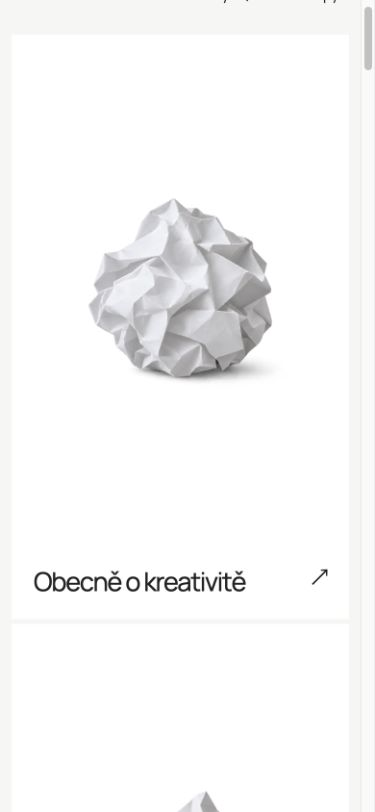
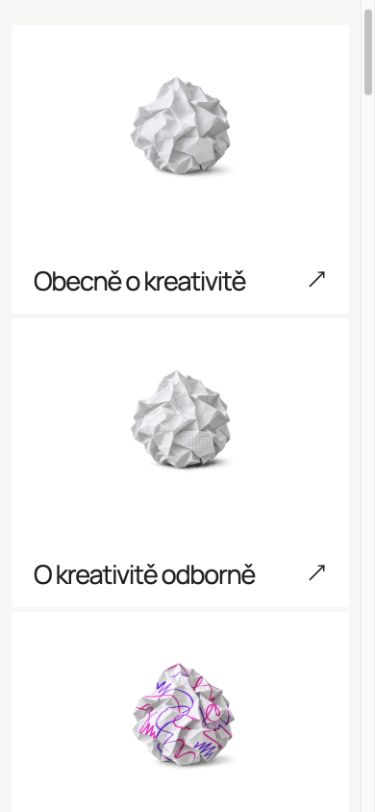
Zmenšit dlaždice a sjednotit motiv zmačkaného papíru

diff --git a/src/data/creative-photos.ts b/src/data/creative-photos.ts
@@ -1,10 +1,10 @@
-/** Matched AI studio paper series. Origins and prompts: docs/PAPER-PHOTOS.md. */
+/** Crumpled-paper AI studio series. Origins and prompts: docs/PAPER-PHOTOS-V2.md. */
 import obecne from '../assets/creative-paper/obecne-v1.png';
-import odborne from '../assets/creative-paper/odborne-v1.png';
+import odborne from '../assets/creative-paper/odborne-v2.png';
 import svobodne from '../assets/creative-paper/svobodne-v1.png';
-import cviceni from '../assets/creative-paper/cviceni-v1.png';
-import okenko from '../assets/creative-paper/okenko-v1.png';
-import recenze from '../assets/creative-paper/recenze-v1.png';
-import spoluprace from '../assets/creative-paper/spoluprace-v1.png';
-import inspirace from '../assets/creative-still-life/lahev-vlastovka-v1.png';
+import cviceni from '../assets/creative-paper/cviceni-v2.png';
+import okenko from '../assets/creative-paper/okenko-v2.png';
+import recenze from '../assets/creative-paper/recenze-v2.png';
+import spoluprace from '../assets/creative-paper/spoluprace-v2.png';
+import inspirace from '../assets/creative-paper/inspirace-v2.png';
 export const creativePhotos = { obecne, odborne, svobodne, cviceni, okenko, recenze, spoluprace, inspirace };

diff --git a/docs/PAPER-PHOTOS-V2.md b/docs/PAPER-PHOTOS-V2.md
@@ -1,0 +1,91 @@
+# Jedna zmačkaná koule, osm rubrik
+
+Vytvořeno 6. 11. 2026 vestavěným ImageGen (bez CLI/API). Jde o AI fotografické studie, nikoli fotografie Marka. Nový požadavek: ve všech dlaždicích podobný tvar zmačkaného papíru; měnit jeho úpravu, ne druh předmětu.
+
+Základ i geometrická reference: `src/assets/creative-paper/obecne-v1.png`. Čistý motiv a počmáraný `svobodne-v1.png` zůstávají z první série, jejich původ je v `PAPER-PHOTOS.md`. Šest nových variant níže bylo vytvořeno samostatnými editacemi téhož základu. Všechny výstupy mají 1086 × 1448 px a skutečný alfa kanál, který zůstává zachovaný. Originály V1 a stará lahev/vlaštovka/kniha se nemažou. Mapování v `src/data/creative-photos.ts` se používá i v rubrikách a jejich náhledech.
+
+Aktuální řada: čistá koule / schémata / magentové a fialové čmáranice / krátké trhliny / malé okénko / textový potisk / trhlina se sponkou / barevné papírové pásky. Potisk je generovaná dekorativní textura, nikoli ukázka skutečné knihy, recenze ani autorova textu. Nové obrázky nejsou dodatečně přebarvené nebo skládané programově.
+
+## odborne
+
+Projekt: `src/assets/creative-paper/odborne-v2.png`
+
+Zdroj: `/Users/marekstojka/.codex/generated_images/01a1b2d0-148d-7350-b48c-58dfb2bcce58/exec-6dd927b3-2422-4774-8138-93a9b00d9df7.png`
+
+Reference: `/Users/marekstojka/Library/Mobile Documents/com~apple~CloudDocs/Moje/_můj web/src/assets/creative-paper/obecne-v1.png`
+
+Nastavení: `transparent_background: true`, `referenced_image_paths: [reference]`.
+
+Přesný prompt:
+
+Use case: precise-object-edit. Asset: matched studio photographic series for website category tiles. Image 1 is the EDIT TARGET and geometry master. Preserve this exact compact CRUMPLED WHITE PAPER BALL: same roundish three-dimensional bulk, overall silhouette, fold density, camera, scale, position, vertical canvas, margins, neutral opaque white paper, soft upper-left studio lighting and subtle contact shadow. This must remain a crumpled ball, NOT an opened sheet, plane, book, flat square, or a different object. Change only the physical surface treatment specified below, following the existing folds. Keep an ACTUAL transparent alpha background and translucent contact shadow; no white rectangle, no checkerboard, no new scene. No hands, no logos, no orange, no labels. One ball only, whole object in frame. Treatment: Add a few careful fine graphite scientific diagrams directly on the paper ball: thin connected circles and a small graph grid, following and disappearing into its wrinkles. No letters or words. Keep the original ball geometry, do not unfold the paper to display the diagram.
+
+## cviceni
+
+Projekt: `src/assets/creative-paper/cviceni-v2.png`
+
+Zdroj: `/Users/marekstojka/.codex/generated_images/01a1b2d0-148d-7350-b48c-58dfb2bcce58/exec-3658de6c-9f34-4fee-bcbe-c28cd99d3d0b.png`
+
+Reference: `/Users/marekstojka/Library/Mobile Documents/com~apple~CloudDocs/Moje/_můj web/src/assets/creative-paper/obecne-v1.png`
+
+Nastavení: `transparent_background: true`, `referenced_image_paths: [reference]`.
+
+Přesný prompt:
+
+Use case: precise-object-edit. Asset: matched studio photographic series for website category tiles. Image 1 is the EDIT TARGET and geometry master. Preserve this exact compact CRUMPLED WHITE PAPER BALL: same roundish three-dimensional bulk, overall silhouette, fold density, camera, scale, position, vertical canvas, margins, neutral opaque white paper, soft upper-left studio lighting and subtle contact shadow. This must remain a crumpled ball, NOT an opened sheet, plane, book, flat square, or a different object. Change only the physical surface treatment specified below, following the existing folds. Keep an ACTUAL transparent alpha background and translucent contact shadow; no white rectangle, no checkerboard, no new scene. No hands, no logos, no orange, no labels. One ball only, whole object in frame. Treatment: Tear three short irregular slits into the front and upper edge of the paper ball; expose delicate white torn paper fibers and a few tiny attached curling torn tabs. Keep all pieces attached to the compact ball, preserve its overall round silhouette and almost all original folds. No detached scraps or extra objects. The effect is a crumpled ball experimented on by tearing, NOT a flattened torn sheet.
+
+## okenko
+
+Projekt: `src/assets/creative-paper/okenko-v2.png`
+
+Zdroj: `/Users/marekstojka/.codex/generated_images/01a1b2d0-148d-7350-b48c-58dfb2bcce58/exec-66a2e10e-d29b-4b5b-8f9b-2a537a02543b.png`
+
+Reference: `/Users/marekstojka/Library/Mobile Documents/com~apple~CloudDocs/Moje/_můj web/src/assets/creative-paper/obecne-v1.png`
+
+Nastavení: `transparent_background: true`, `referenced_image_paths: [reference]`.
+
+Přesný prompt:
+
+Use case: precise-object-edit. Asset: matched studio photographic series for website category tiles. Image 1 is the EDIT TARGET and geometry master. Preserve this exact compact CRUMPLED WHITE PAPER BALL: same roundish three-dimensional bulk, overall silhouette, fold density, camera, scale, position, vertical canvas, margins, neutral opaque white paper, soft upper-left studio lighting and subtle contact shadow. This must remain a crumpled ball, NOT an opened sheet, plane, book, flat square, or a different object. Change only the physical surface treatment specified below, following the existing folds. Keep an ACTUAL transparent alpha background and translucent contact shadow; no white rectangle, no checkerboard, no new scene. No hands, no logos, no orange, no labels. One ball only, whole object in frame. Treatment: Cut a single small rough square viewing window into the front face of the crumpled ball, about one quarter of the ball width. One thin paper flap folds slightly outward; inside show the recessed gray-white inner folds of the SAME ball. Preserve the bulky round silhouette and the rest of its creases. Do not turn the ball into an arch, flat sheet or square frame.
+
+## recenze
+
+Projekt: `src/assets/creative-paper/recenze-v2.png`
+
+Zdroj: `/Users/marekstojka/.codex/generated_images/01a1b2d0-148d-7350-b48c-58dfb2bcce58/exec-cd6eaf93-c92a-4318-9b24-f05d9cb8604b.png`
+
+Reference: `/Users/marekstojka/Library/Mobile Documents/com~apple~CloudDocs/Moje/_můj web/src/assets/creative-paper/obecne-v1.png`
+
+Nastavení: `transparent_background: true`, `referenced_image_paths: [reference]`.
+
+Přesný prompt:
+
+Use case: precise-object-edit. Asset: matched studio photographic series for website category tiles. Image 1 is the EDIT TARGET and geometry master. Preserve this exact compact CRUMPLED WHITE PAPER BALL: same roundish three-dimensional bulk, overall silhouette, fold density, camera, scale, position, vertical canvas, margins, neutral opaque white paper, soft upper-left studio lighting and subtle contact shadow. This must remain a crumpled ball, NOT an opened sheet, plane, book, flat square, or a different object. Change only the physical surface treatment specified below, following the existing folds. Keep an ACTUAL transparent alpha background and translucent contact shadow; no white rectangle, no checkerboard, no new scene. No hands, no logos, no orange, no labels. One ball only, whole object in frame. Treatment: Make this SAME crumpled ball from a white printed book page. Add dense fine black serif typesetting in short generic paragraph lines, visibly distorted and interrupted by the original wrinkles. Printing is a texture: no recognizable book, title, author, readable headline, logo or quotations. Keep broad white margins and the same opaque white matte paper. Do NOT create an actual book or booklet.
+
+## spoluprace
+
+Projekt: `src/assets/creative-paper/spoluprace-v2.png`
+
+Zdroj: `/Users/marekstojka/.codex/generated_images/01a1b2d0-148d-7350-b48c-58dfb2bcce58/exec-d8c4aab6-879b-4f9c-ae4d-0a4042a9f1cf.png`
+
+Reference: `/Users/marekstojka/Library/Mobile Documents/com~apple~CloudDocs/Moje/_můj web/src/assets/creative-paper/obecne-v1.png`
+
+Nastavení: `transparent_background: true`, `referenced_image_paths: [reference]`.
+
+Přesný prompt:
+
+Use case: precise-object-edit. Asset: matched studio photographic series for website category tiles. Image 1 is the EDIT TARGET and geometry master. Preserve this exact compact CRUMPLED WHITE PAPER BALL: same roundish three-dimensional bulk, overall silhouette, fold density, camera, scale, position, vertical canvas, margins, neutral opaque white paper, soft upper-left studio lighting and subtle contact shadow. This must remain a crumpled ball, NOT an opened sheet, plane, book, flat square, or a different object. Change only the physical surface treatment specified below, following the existing folds. Keep an ACTUAL transparent alpha background and translucent contact shadow; no white rectangle, no checkerboard, no new scene. No hands, no logos, no orange, no labels. One ball only, whole object in frame. Treatment: A narrow jagged tear runs down the front of this SAME crumpled paper ball. The two edges are brought back together with one small violet paperclip. Keep them joined tightly into the exact same round compact ball volume. Visible white paper fibers at the seam. Do NOT open out two sheets or flatten the ball; the original surrounding geometry and silhouette are unchanged.
+
+## inspirace
+
+Projekt: `src/assets/creative-paper/inspirace-v2.png`
+
+Zdroj: `/Users/marekstojka/.codex/generated_images/01a1b2d0-148d-7350-b48c-58dfb2bcce58/exec-292ab099-d04e-4e8b-ad9e-f9ca55b07a06.png`
+
+Reference: `/Users/marekstojka/Library/Mobile Documents/com~apple~CloudDocs/Moje/_můj web/src/assets/creative-paper/obecne-v1.png`
+
+Nastavení: `transparent_background: true`, `referenced_image_paths: [reference]`.
+
+Přesný prompt:
+
+Use case: precise-object-edit. Asset: matched studio photographic series for website category tiles. Image 1 is the EDIT TARGET and geometry master. Preserve this exact compact CRUMPLED WHITE PAPER BALL: same roundish three-dimensional bulk, overall silhouette, fold density, camera, scale, position, vertical canvas, margins, neutral opaque white paper, soft upper-left studio lighting and subtle contact shadow. This must remain a crumpled ball, NOT an opened sheet, plane, book, flat square, or a different object. Change only the physical surface treatment specified below, following the existing folds. Keep an ACTUAL transparent alpha background and translucent contact shadow; no white rectangle, no checkerboard, no new scene. No hands, no logos, no orange, no labels. One ball only, whole object in frame. Treatment: On three small front-facing folds of this SAME white crumpled paper ball, apply three short translucent pieces of violet and magenta paper tape, crossing at different angles. The tape follows the wrinkled surface and catches the same light. Keep most of the white paper exposed, no writing, no other objects, no drawing. Preserve the original round silhouette and all folds; this is a paper ball with a few playful color accents.

diff --git a/docs/DESIGN.md b/docs/DESIGN.md
@@ -463,3 +463,11 @@ Autor upřesnil, že se mu velké dlaždice LÍBÍ; pochybnost se týká papíro
 Pohyb trvá 1,5–1,8 s jednou při příchodu dlaždice do výhledu a znovu po najetí myší nebo získání klávesového focusu. Texty a klikací plocha stojí. Bez trvalé smyčky, Canvasu nebo ovládání pauzy. IntersectionObserver spouští jen viditelné dlaždice; odchod z výhledu, skrytá karta nebo změna reduced motion ruší probíhající pohyb. Reduced motion ponechává motivy statické. Skript se inicializuje na astro:page-load a před výměnou stránky uklízí observer, posluchače i animace. Nativní prokliky a upravené kliknutí zůstávají beze změn. Desktop 1440 px a mobil 390 px ověřeny v prohlížeči včetně skutečné změny transformace, návratu do klidu, navigace do rubriky a zpět, bez chyb konzole a přesahu. Snímky `nahled-kreativec.jpg` a `nahled-kreativec-dlazdice-mobile.jpg`.
 
 Předchozí úpravy banánu/odpovědí/workshopů jsou nyní na GitHubu jako bfa0830; Publish website 42305628948 a Check and build 42305628834 úspěšné. Starší lokální poznámka výše popisuje stav před tímto nahráním.
+
+## Kompaktnější dlaždice a jednotná zmačkaná koule — 6. 11. 2026
+
+Autor nově požádal zmenšit fotografie i výšku úvodních dlaždic. Mřížka osmi rubrik zůstává: 4 sloupce desktop, 2 tablet, 1 mobil. Výška je nově clamp(320px, 40svh, 440px), do 1000 px 360 px a do 700 px 300 px. Obrázky mají šířku min(62 %, 280 px), na mobilu min(60 %, 230 px); zachovaný volný prostor a čitelné názvy. Lokální styly jsou v CreativeDirectory.astro. Nejde o změnu hlavní homepage harmoniky.
+
+Navazující výslovné upřesnění: VE VŠECH dlaždicích držet podobný tvar a zmačkání stejné papírové koule, pouze s různým zpracováním. Vlaštovka, ploché okénko, otevřená knížka a lahev jsou proto nahrazené koulemi. Aktuální motivy: čistý papír / schémata / čmáranice / natržení / malé okénko v kouli / potisk / trhlina spojená sponkou / papírové pásky. Čistá a počmáraná koule V1 zachované, ostatních šest vzniklo vestavěným ImageGen přímou editací stejného základu, nikoli samostatnou volnou reinterpretací. Přesné prompty, soubory a původ v PAPER-PHOTOS-V2.md. V1 zdroje včetně lahve a letadla zůstávají archivně. Generovaný potisk není citace z knihy. Mapování creative-photos.ts sjednocuje i rubrikové náhledy.
+
+Krátké pohyby zůstávají, všechny trvají 1,5 s. Cvičení již nedělá výrazný přelet vlaštovky, pouze se lehce zhoupne. Bez nové smyčky, ovládání nebo změn navigace. Ověřeno 1440 px a 390/320 px, všechny obrázky načtené, shodné výšky dlaždic a žádný vodorovný přesah. Náhledy nahled-kreativec.jpg a nahled-kreativec-dlazdice-mobile.jpg aktualizované.

diff --git a/README.md b/README.md
@@ -366,3 +366,5 @@ Kreativita má osm rovnocenných rubrik (včetně Nástroje a inspirace), větš
 Revize (6. 11. 2026): pod rozcestníkem je banán přes celou šířku bílého listu s větou „I divný věci můžou být dobrým nápadem.“. Následuje „Co je vlastně ta kreativita?“ a šest dlaždic s pracovními krátkými odpověďmi; původní úvod a tři pilíře odstraněné. Workshopy jsou nově přehledem čtyř odkazových řádků. Velká lahev pod workshopy odstraněná, její horní dlaždice na výslovné přání zatím zůstává. Zdroj `MagazineIntroduction.astro` / `WorkshopOffer.astro`. Náhledy: `docs/nahled-kreativec-zatisi.jpg`, `docs/nahled-kreativec-odpovedi.jpg`, `docs/nahled-kreativec-mobile.jpg`, `docs/nahled-workshopy.jpg`. Revize bfa0830 je nahraná na GitHub a úspěšně nasazená.
 
 Autor následně potvrdil zachování VELKÝCH dlaždic; zkoušíme oživit jejich motivy. `CreativeDirectory.astro` zachovává fotografie i mřížku a přidává jednotlivá krátká gesta při vstupu do výhledu, hoveru a focusu. Žádná trvalá smyčka; mimo výhled/neaktivní kartu pohyb končí, reduced motion je statický. Návrat přes Astro navigaci znovu správně inicializuje sekci. Aktuální náhledy: `docs/nahled-kreativec.jpg` a `docs/nahled-kreativec-dlazdice-mobile.jpg`.
+
+Nejnovější revize (6. 11. 2026): na požadavek autora jsou dlaždice kompaktnější, vysoké 320–440 px na desktopu / 360 px na tabletu / 300 px na mobilu, s menšími motivy. Všech osm obrázků nyní drží tvar téže zmačkané papírové koule, jednou čisté, jindy počmárané, natržené, s okénkem, potiskem, sponkou nebo páskami. Nových šest fotografických AI studií a přesná zadání: `docs/PAPER-PHOTOS-V2.md`; soubory `src/assets/creative-paper/*-v2.png`. Mapování `creative-photos.ts` používají i rubriky. Letadlo, knížka a lahev zůstávají pouze archivně. Aktuální snímky výše zachycují menší podobu.
